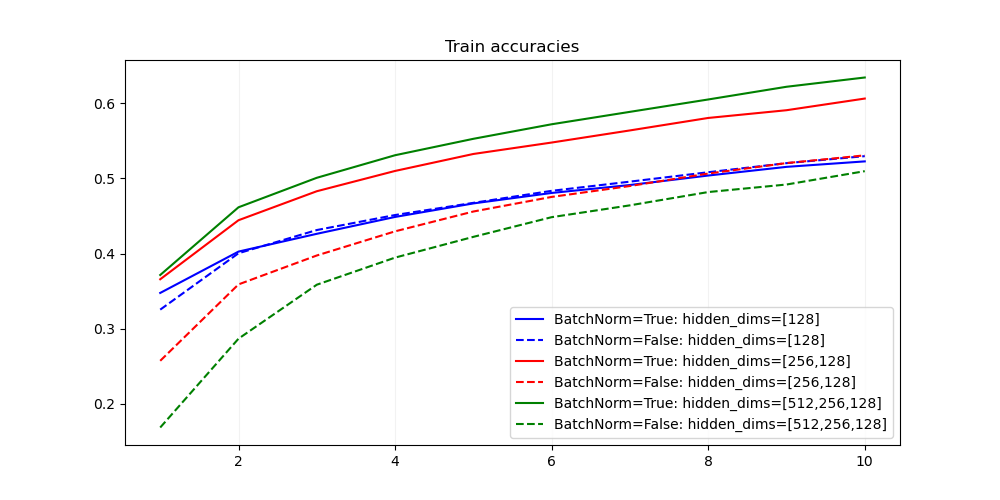
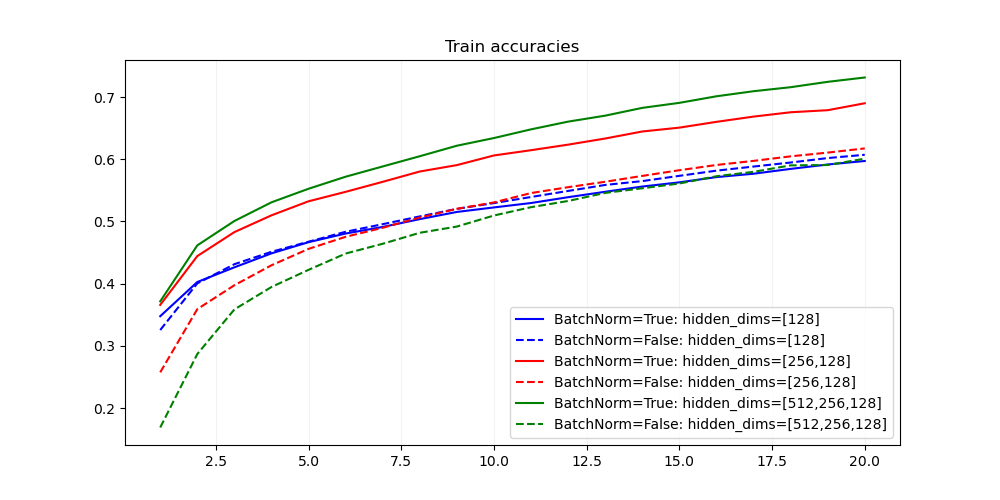
small fixes

diff --git a/code/compare_batch_norm.py b/code/compare_batch_norm.py
@@ -66,8 +66,9 @@ def train_models(results_filename):
         for use_bn in [True, False]:
             hidden_dims = list(map(int, hyperp.split(",")))
             model, val_accuracies, test_accuracy, logging_dict = \
-                train_mlp_pytorch.train(hidden_dims, lr=0.1, use_batch_norm=use_bn, batch_size=128, epochs=10, seed=42,
+                train_mlp_pytorch.train(hidden_dims, lr=0.1, use_batch_norm=use_bn, batch_size=128, epochs=20, seed=42,
                                         data_dir='data/')
+            results_dict[hyperp][use_bn] = logging_dict
 
     # TODO: Save all results in a file with the name 'results_filename'. This can e.g. by a json file
     with open(results_filename, 'w', encoding='utf-8') as f:
